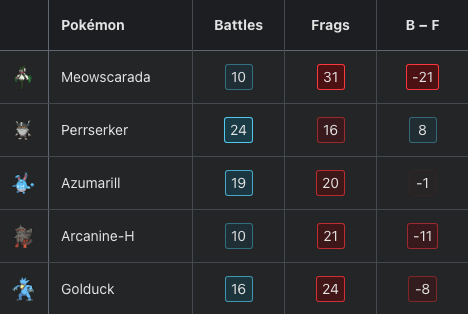
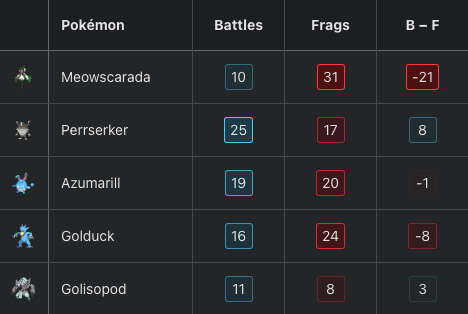
redo route 9 alicia

diff --git a/site/src/data/guide/sabrina.ts b/site/src/data/guide/sabrina.ts
@@ -1086,6 +1086,15 @@ export const pokemonTowerGrunt2Battle: Moment = {
 const _box13 = getBox({
   box: _box12,
   update: {
+    Golisopod: {
+      level: 43,
+    },
+  }
+});
+
+const _box14 = getBox({
+  box: _box13,
+  update: {
     Meowscarada: {
       nature: "Adamant",
       ability: "Protean",
@@ -1113,7 +1122,7 @@ export const pokemonTowerGrunt3Battle: Moment = {
   label: "Pokémon Tower Grunt 3 Battle",
   kind: "battle",
   data: {
-    playerBox: _box13,
+    playerBox: _box14,
     opponentBox: pokemonTowerGrunt3Box,
     lines: [
       {
@@ -1253,17 +1262,17 @@ const _mudkip = {
   moves: ["Growl", "Tackle"],
 };
 
-const _box14 = getBox({ box: _box13, add: [_mudkip] });
+const _box15 = getBox({ box: _box14, add: [_mudkip] });
 
 export const starterEgg2Encounter: Moment = {
   split: "Sabrina",
   label: "Starter Egg 2 Encounter",
   kind: "encounter",
-  data: { pokemon: _mudkip, playerBox: _box14 },
+  data: { pokemon: _mudkip, playerBox: _box15 },
 };
 
-const _box15 = getBox({
-  box: _box14,
+const _box16 = getBox({
+  box: _box15,
   update: {
     Azumarill: {
       friend: true,
@@ -1275,11 +1284,11 @@ export const starterEgg2BoxChange: Moment = {
   split: "Sabrina",
   label: "Starter Egg 2 Change",
   kind: "boxChange",
-  data: { playerBox: _box15 },
+  data: { playerBox: _box16 },
 };
 
-const _box16 = getBox({
-  box: _box15,
+const _box17 = getBox({
+  box: _box16,
   update: {
     Excadrill: {
       nature: "Jolly",
@@ -1326,7 +1335,7 @@ export const saffronDojoLeaderChuckBattle: Moment = {
   label: "Saffron Dojo Leader Chuck Battle",
   kind: "battle",
   data: {
-    playerBox: _box16,
+    playerBox: _box17,
     opponentBox: saffronDojoLeaderChuckBox,
     lines: [
       {
@@ -1623,8 +1632,8 @@ export const saffronDojoLeaderChuckBattle: Moment = {
   },
 };
 
-const _box17 = getBox({
-  box: _box16,
+const _box18 = getBox({
+  box: _box17,
   update: {
     Cloyster: {
       friend: true,
@@ -1636,11 +1645,11 @@ export const saffronDojoLeaderChuckBoxChange: Moment = {
   split: "Sabrina",
   label: "Saffron Dojo Leader Chuck Box Change",
   kind: "boxChange",
-  data: { playerBox: _box17 },
+  data: { playerBox: _box18 },
 };
 
-const _box18 = getBox({
-  box: _box17,
+const _box19 = getBox({
+  box: _box18,
   update: {
     Meowscarada: {
       nature: "Brave",
@@ -1687,7 +1696,7 @@ export const silphCoRivalBattle: Moment = {
   label: "Silph Co. Rival Battle",
   kind: "battle",
   data: {
-    playerBox: _box18,
+    playerBox: _box19,
     opponentBox: silphCoRivalBox,
     lines: [
       {
@@ -1789,8 +1798,8 @@ export const silphCoRivalBattle: Moment = {
   },
 };
 
-const _box19 = getBox({
-  box: _box18,
+const _box20 = getBox({
+  box: _box19,
   update: {
     Jellicent: {
       level: 56,
@@ -1802,11 +1811,11 @@ export const silphCoRivalBoxChange: Moment = {
   split: "Sabrina",
   label: "Silph Co. Rival Box Change",
   kind: "boxChange",
-  data: { playerBox: _box19 },
+  data: { playerBox: _box20 },
 };
 
-const _box20 = getBox({
-  box: _box19,
+const _box21 = getBox({
+  box: _box20,
   update: {
     Jellicent: {
       nature: "Modest",
@@ -1835,7 +1844,7 @@ export const silphCoArianaArcherBattle: Moment = {
   label: "Silph Co. Ariana & Archer Battle",
   kind: "battle",
   data: {
-    playerBox: _box20,
+    playerBox: _box21,
     opponentBox: silphCoArianaArcherBox,
     partnerBox: pokemonTrainerBrendanBox,
     lines: [
@@ -2505,8 +2514,8 @@ export const silphCoArianaArcherBattle: Moment = {
   },
 };
 
-const _box21 = getBox({
-  box: _box20,
+const _box22 = getBox({
+  box: _box21,
   cap: { level: 57, exclude: ["Golisopod"] },
 });
 
@@ -2514,11 +2523,11 @@ export const silphCoArianaArcherBoxChange: Moment = {
   split: "Sabrina",
   label: "Silph Co. Ariana & Archer Box Change",
   kind: "boxChange",
-  data: { playerBox: _box21 },
+  data: { playerBox: _box22 },
 };
 
-const _box22 = getBox({
-  box: _box21,
+const _box23 = getBox({
+  box: _box22,
   update: {
     Meowscarada: {
       nature: "Adamant",
@@ -2559,7 +2568,7 @@ export const silphCoGiovanniBattle: Moment = {
   label: "Silph Co. Giovanni Battle",
   kind: "battle",
   data: {
-    playerBox: _box22,
+    playerBox: _box23,
     opponentBox: silphCoGiovanniBox,
     lines: [
       {
@@ -2767,8 +2776,8 @@ export const silphCoGiovanniBattle: Moment = {
   },
 };
 
-const _box23 = getBox({
-  box: _box22,
+const _box24 = getBox({
+  box: _box23,
   cap: 59,
   update: [
     {
@@ -2792,11 +2801,11 @@ export const silphCoGiovanniBoxChange: Moment = {
   split: "Sabrina",
   label: "Silph Co. Giovanni Box Change",
   kind: "boxChange",
-  data: { playerBox: _box23 },
+  data: { playerBox: _box24 },
 };
 
-const _box24 = getBox({
-  box: _box23,
+const _box25 = getBox({
+  box: _box24,
   update: {
     Golisopod: {
       nature: "Adamant",
@@ -2845,7 +2854,7 @@ export const saffronCityDumassKidBattle: Moment = {
   label: "Saffron City Dumass Kid Battle",
   kind: "battle",
   data: {
-    playerBox: _box24,
+    playerBox: _box25,
     opponentBox: saffronCityDumassKidBox,
     lines: [
       {
@@ -2961,8 +2970,8 @@ export const saffronCityDumassKidBattle: Moment = {
   },
 };
 
-const _box25 = getBox({
-  box: _box24,
+const _box26 = getBox({
+  box: _box25,
   remove: ["Cloyster"],
   update: {
     Perrserker: {
@@ -2992,11 +3001,11 @@ export const saffronCityDumassKidBoxChange: Moment = {
   split: "Sabrina",
   label: "Saffron City Dumass Kid Box Change",
   kind: "boxChange",
-  data: { playerBox: _box25 },
+  data: { playerBox: _box26 },
 };
 
-const _box26 = getBox({
-  box: _box25,
+const _box27 = getBox({
+  box: _box26,
   update: {
     Lanturn: {
       nature: "Quiet",
@@ -3043,7 +3052,7 @@ export const saffronCityLeaderSabrinaBattle: Moment = {
   label: "Saffron City Leader Sabrina Battle",
   kind: "battle",
   data: {
-    playerBox: _box26,
+    playerBox: _box27,
     opponentBox: saffronCityLeaderSabrinaBox,
     lines: [
       {
@@ -3190,8 +3199,8 @@ export const saffronCityLeaderSabrinaBattle: Moment = {
   },
 };
 
-const _box27 = getBox({
-  box: _box26,
+const _box28 = getBox({
+  box: _box27,
   update: {
     Perrserker: {
       ivs: { spe: 31 },
@@ -3216,10 +3225,10 @@ export const saffronCityLeaderSabrinaBoxChange: Moment = {
   split: "Sabrina",
   label: "Saffron City Leader Sabrina Box Change",
   kind: "boxChange",
-  data: { playerBox: _box27 },
+  data: { playerBox: _box28 },
 };
 
-export const box = _box27;
+export const box = _box28;
 
 export const moments: Moment[] = [
   sabrinaBoxChange,

diff --git a/site/src/data/guide/erika.ts b/site/src/data/guide/erika.ts
@@ -32,11 +32,11 @@ export const erikaBoxChange: Moment = {
 const _box3 = getBox({
   box: _box2,
   update: {
-    "Arcanine-H": {
+    Perrserker: {
       nature: "Adamant",
-      ability: "Rock Head",
+      ability: "Battle Armor",
       item: "Chesto Berry",
-      moves: ["Accelerock", "Flamethrower", "Flare Blitz", "Rock Tomb"],
+      moves: ["Fake Out", "Bullet Punch", "Dig", "Iron Head"],
     },
     Clodsire: {
       nature: "Careful",
@@ -63,7 +63,7 @@ const _box3 = getBox({
       moves: ["Aqua Jet", "Counter", "Razor Shell", "Rock Tomb"],
     },
   },
-  team: ["Arcanine-H", "Clodsire", "Houndoom", "Golduck", "Drednaw"],
+  team: ["Perrserker", "Clodsire", "Houndoom", "Golduck", "Drednaw"],
 });
 
 export const route9PicnickerAliciaBattle: Moment = {
@@ -80,11 +80,15 @@ export const route9PicnickerAliciaBattle: Moment = {
             matchup: ["Roserade"],
             turns: [
               [
-                { opponent: "{o:Roserade} Sleep Powder {p:Arcanine-H}" },
-                { player: "{p:Arcanine-H} Flare Blitz {o:Roserade} to {=:1}" },
+                { player: "{p:Perrserker} Fake Out {o:Roserade} to {-:92}" },
+                { opponent: "{o:Roserade} flinched" },
               ],
               [
-                { player: "{p:Arcanine-H} Accelerock {o:Roserade} to {=:0}" },
+                { opponent: "{o:Roserade} Sleep Powder {p:Perrserker}" },
+                { player: "{p:Perrserker} Iron Head {o:Roserade} to {-:23}" },
+              ],
+              [
+                { player: "{p:Perrserker} Bullet Punch {o:Roserade} to {=:0}" },
                 { opponent: "{o:Roserade} fainted" },
               ],
             ],
@@ -93,7 +97,7 @@ export const route9PicnickerAliciaBattle: Moment = {
             matchup: ["Bruxish"],
             turns: [
               [
-                { player: "{p:Arcanine-H} switch to {p:Clodsire}" },
+                { player: "{p:Perrserker} switch to {p:Clodsire}" },
                 { opponent: "{o:Bruxish} Aqua Fang {p:Clodsire}" },
               ],
               [
@@ -134,7 +138,7 @@ export const route9PicnickerAliciaBattle: Moment = {
             ],
           },
         ],
-        frags: { "Arcanine-H": 1, Houndoom: 1, Golduck: 1, Drednaw: 1 },
+        frags: { Perrserker: 1, Houndoom: 1, Golduck: 1, Drednaw: 1 },
       },
     ],
   },
@@ -417,10 +421,10 @@ const _box6 = getBox({
       moves: ["Aqua Fang", "Bulldoze", "Ice Fang", "Leer"],
     },
     Perrserker: {
-      nature: "Careful",
+      nature: "Adamant",
       ability: "Battle Armor",
-      item: "Shuca Berry",
-      moves: ["Fake Out", "Bullet Punch", "Iron Head", "Metal Burst"],
+      item: "Chesto Berry",
+      moves: ["Fake Out", "Bullet Punch", "Dig", "Iron Head"],
     },
     Tentacruel: {
       nature: "Timid",
@@ -476,7 +480,7 @@ export const route10PokeManiacHermanBattle: Moment = {
                 { player: "{p:Gyarados} switch to {p:Tentacruel}" },
                 {
                   opponent:
-                    "{o:Sylveon} Misty Explosi. {p:Perrserker} to {+:62} and {p:Tentacruel} (non-crit) to {+:86}",
+                    "{o:Sylveon} Misty Explosi. {p:Perrserker} to {=:53} and {p:Tentacruel} (non-crit) to {+:86}",
                 },
                 { opponent: "{o:Sylveon} fainted" },
               ],
